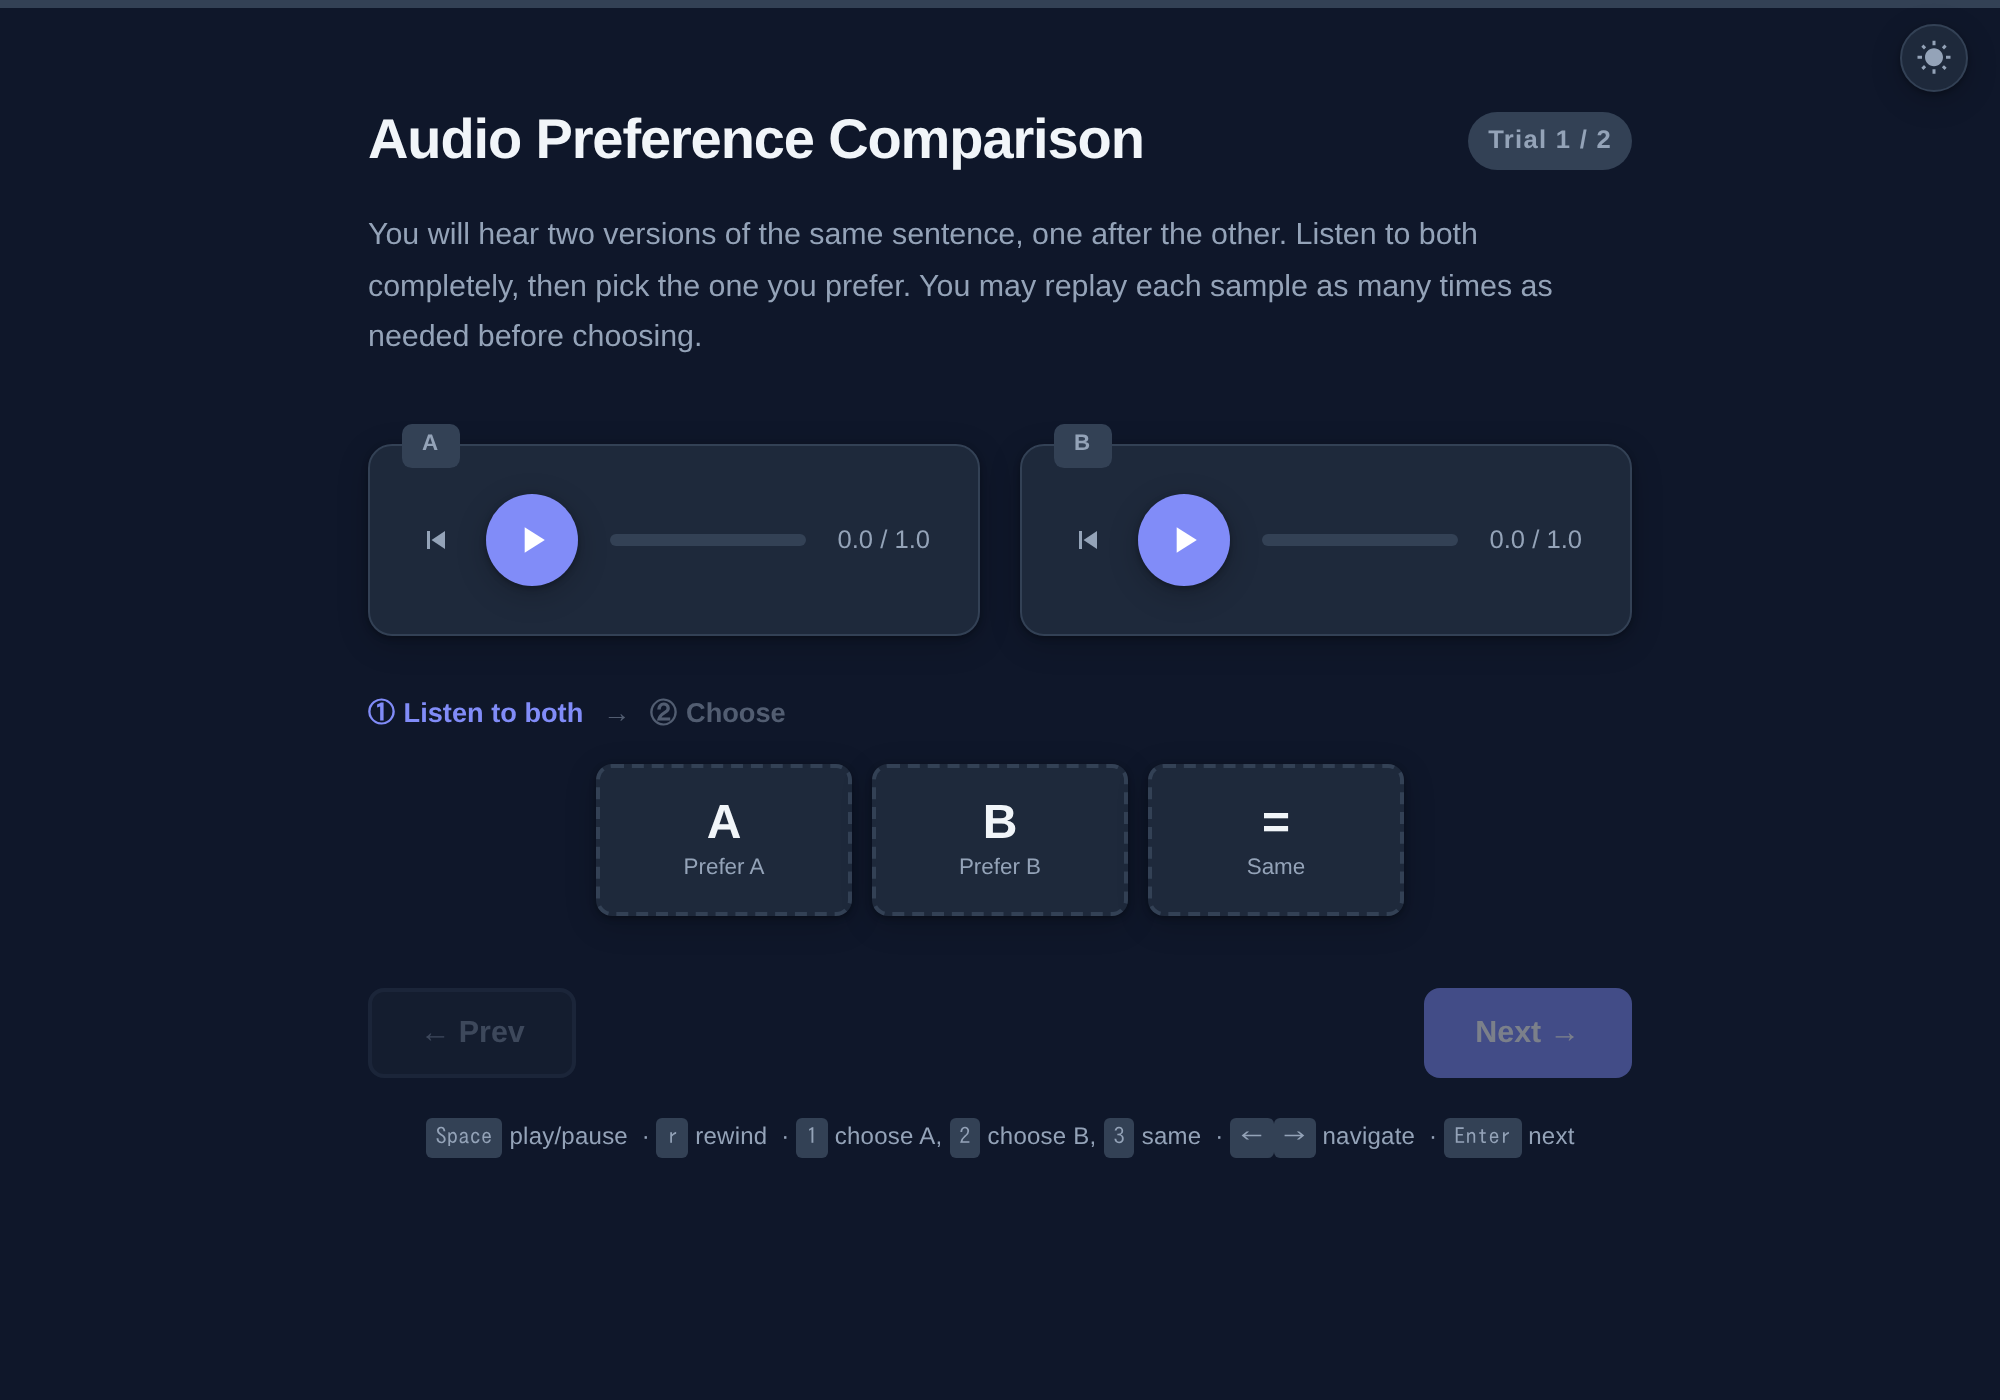
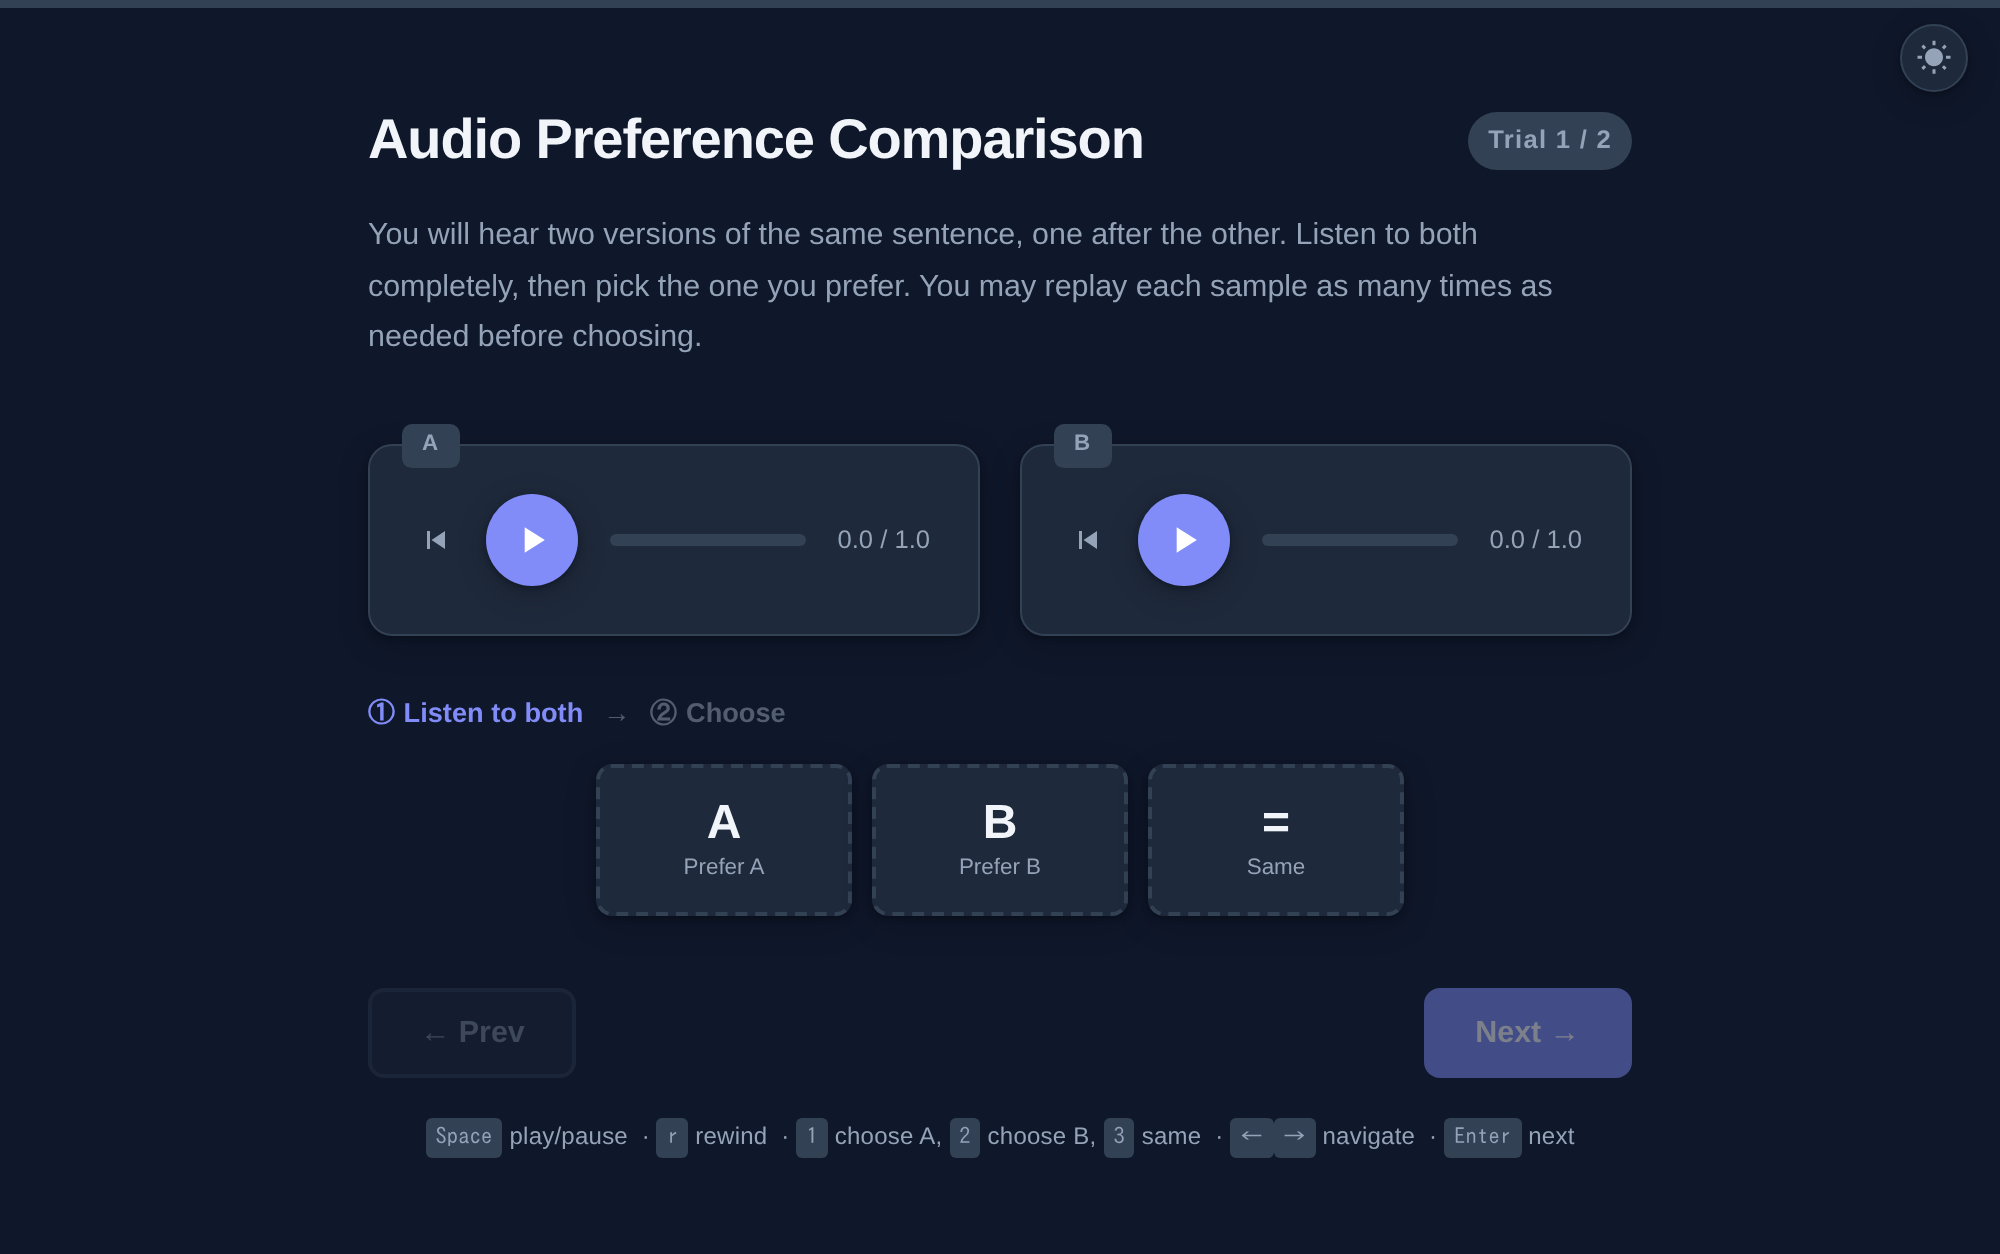
cut bottom space

diff --git a/scripts/capture_screenshots.py b/scripts/capture_screenshots.py
@@ -84,7 +84,25 @@ def _capture(browser, theme: str, output: str) -> None:
     # Both MOS and the paired-choice tests render into .stimulus-page.
     page.wait_for_selector(".stimulus-page", timeout=15000)
     page.wait_for_timeout(500)  # let the audio time bar settle
-    page.screenshot(path=str(ASSETS / output))
+    # Crop to the content. The viewport is a fixed 700px so that every shot
+    # lays out the same way, but each interface is shorter than that by a
+    # different amount and the leftover reads as dead space in the README.
+    # #app's own bottom padding is part of that leftover, so the crop is taken
+    # from where the content actually ends, plus the padding above the title
+    # so the shot is not lopsided.
+    box = page.evaluate(
+        "() => {"
+        " const app = document.getElementById('app');"
+        " const bottom = [...app.querySelectorAll('*')]"
+        "   .reduce((m, e) => Math.max(m, e.getBoundingClientRect().bottom), 0);"
+        " return {bottom, pad: parseFloat(getComputedStyle(app).paddingTop)};"
+        "}"
+    )
+    height = min(round(box["bottom"] + box["pad"]), 700)
+    page.screenshot(
+        path=str(ASSETS / output),
+        clip={"x": 0, "y": 0, "width": 1000, "height": height},
+    )
     context.close()
 
 
